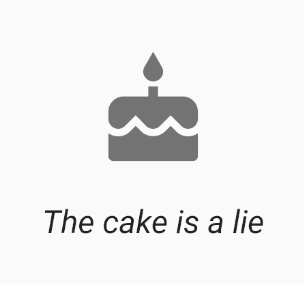
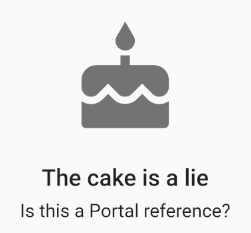
Updated readme file

Changed region(s): [[0.3068, 0.0901, 0.6972, 0.5708], [0.1394, 0.721, 0.8645, 0.8412], [0.0837, 0.8712, 0.9203, 0.9313]]

diff --git a/lib/src/tip.dart b/lib/src/tip.dart
@@ -8,7 +8,7 @@ class BigTip extends StatelessWidget {
   /// Widget representing the main information point of the view.
   ///
   /// If this parameters holds a [Icon] widget, an automatic theme will be applied,
-  /// setting 100 as its size, and using the caption text style's color by default.
+  /// setting its size to 100, and using the caption text style's color by default.
   final Widget child;
 
   /// Space between the [child] and the text. Default value is 22.

diff --git a/README.md b/README.md
@@ -5,9 +5,13 @@
 [![Patreon](https://img.shields.io/badge/Support-Patreon-orange.svg?style=for-the-badge)](https://www.patreon.com/jesusrp98)
 [![Stars](https://img.shields.io/github/stars/jesusrp98/big_tip.svg?style=for-the-badge)](https://github.com/jesusrp98/big_tip/stargazers)
 
-Display tips to your users using a custom icon and some text down below.
+Display information to the user using a custom layout, that can be actionable.
 
-This package aims to provide you a simple way to communicate information to the user, using a simple icon and a text message. You can also customize color, size and text style.
+This package aims to provide you a simple way to communicate information to the user, using custom views and a texts message. You can also customize colors, sizes and text style.
+
+It displays a custom widget, usually a `Icon` widget, followed by a title and a subtitle text. If the `child` widget provided is in fact an `Icon`, a default icon theme will be applied, setting its size to `100`, and using the caption text style's color to fill it.
+
+There's also an optional action parameter, which provides the ability to call functions via a customizable button.
 
 <p align="center">
   <img src="https://raw.githubusercontent.com/jesusrp98/big_tip/master/screenshots/0.png" width="256">
@@ -19,12 +23,21 @@ If you want to take a deeper look at the example, take a look at the [example](h
 
 ```
 BigTip(
-  icon: Icons.cake,
-  message: 'The cake is a lie',
-  messageStyle: TextStyle(
-    fontSize: 27,
-    fontStyle: FontStyle.italic,
-  ),
+  child: Icon(Icons.cake),
+  title: 'The cake is a lie',
+  subtitle: 'Is this a Portal reference?',
+),
+```
+
+You can also provide the user with the ability to interact with the view, via a `FlatButton` widget. To do that, you can make use of the `action` and `actionCallback` parameters of the widget. By default, this widget will be placed at the bottom of the view.
+
+```
+BigTip(
+  child: Icon(Icons.cake),
+  title: 'The cake is a lie',
+  subtitle: 'Is this a Portal reference?',
+  action: 'CALL GABEN',
+  actionCallback: () => print('Ding dong'),
 ),
 ```
 
